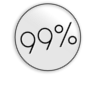
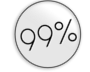
Added footer and messages for when signed

diff --git a/app/assets/stylesheets/application.css.sass b/app/assets/stylesheets/application.css.sass
@@ -988,6 +988,13 @@ fieldset,#campaign-info
   img
     vertical-align: middle
     display: inline
+    float: right
+    width: 25px
+    height: 25px
+    padding: 1px
+    background: white
+    border: 1px solid #A0A0A0
+    box-shadow: 1px 1px 4px rgba(0, 0, 0, 0.55)
 
 /*T a b s
 

diff --git a/app/controllers/campaigns_controller.rb b/app/controllers/campaigns_controller.rb
@@ -181,7 +181,9 @@ class CampaignsController < ApplicationController
       if instanke.save
         if user_signed_in?
           instanke.validate!
+          flash[:thank_message] = t(:thanks_sign_validate)
         else
+          flash[:thank_message] = t(:thanks_sign_has_validate)
           validation = "send_message_to_validate_#{model_name.downcase}".to_s
           Mailman.send(validation, from, @campaign.id, instanke.id).deliver
         end
@@ -204,6 +206,7 @@ class CampaignsController < ApplicationController
 
       if model
         model.validate!
+        flash[:thank_message] = t(:thanks_sign_validate_now)
         redirector_to :signed
       else
         redirector_to :campaign, error: 'El token de validación ya no es válido'
